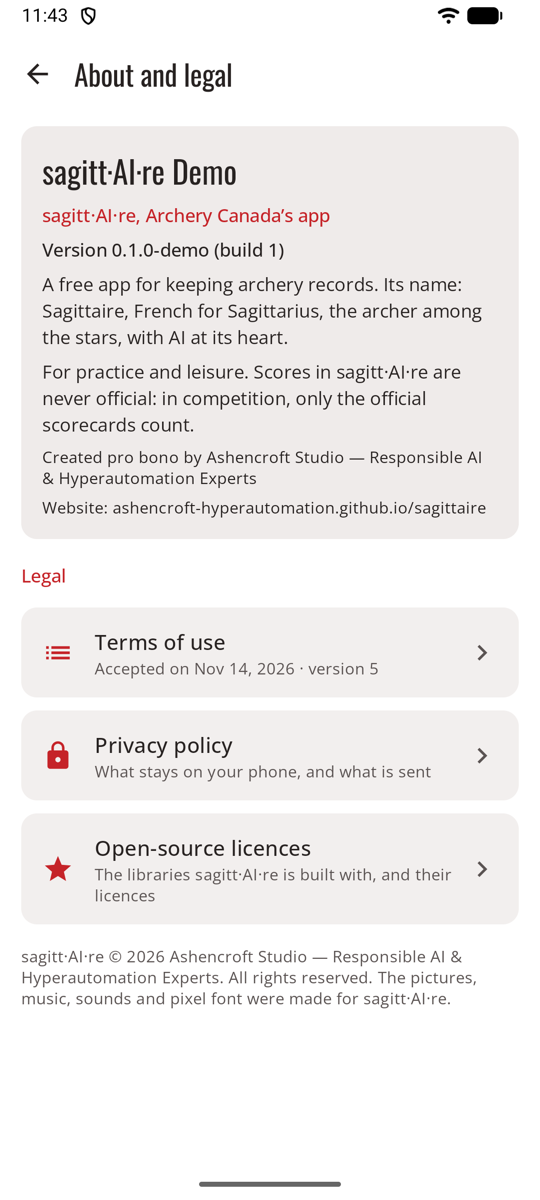
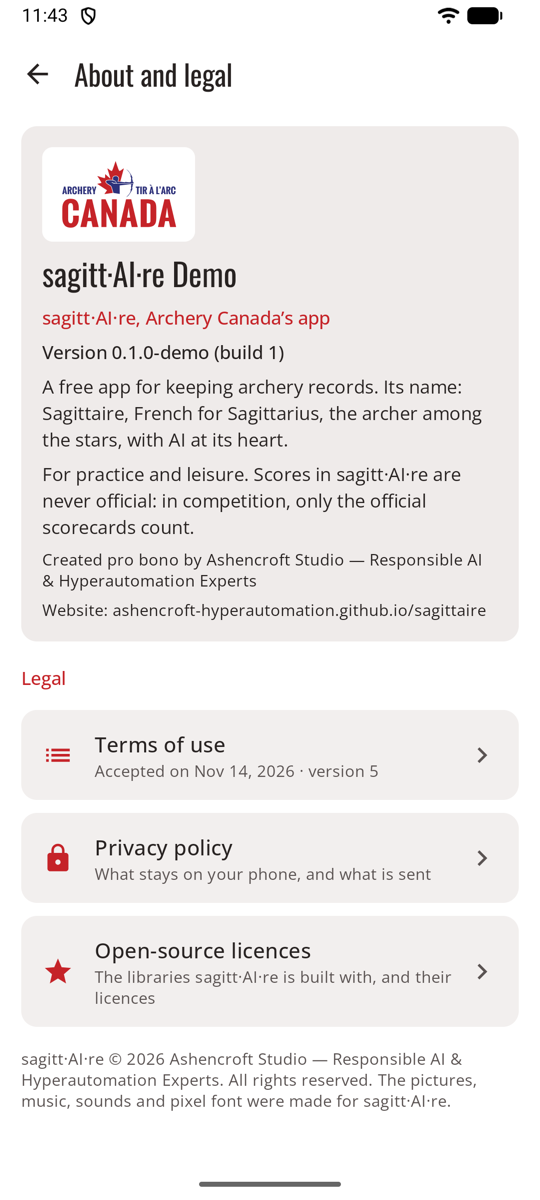
Update the sagitt·AI·re site

diff --git a/sagittaire/docs/stylesheets/extra.css b/sagittaire/docs/stylesheets/extra.css
@@ -33,6 +33,8 @@
 .shots figure { margin: 0; width: 220px; }
 .shots figcaption { font-size: .75rem; text-align: left; }
 .hero img { width: 100%; border-radius: 10px; }
+/* Archery Canada's logo, on white as they show it (its navy needs a light ground, also in dark mode). */
+.md-typeset img.owner-logo { display: block; width: 200px; max-width: 60%; background: #fff; padding: 10px 14px; border-radius: 8px; }
 .md-typeset .grid.cards > ul > li { border-radius: 10px; }
 /* Tabs on the red header: white, the active one underlined. */
 .md-tabs__link { opacity: .9; font-size: .8rem; }

diff --git a/sagittaire/docs/screenshots.fr.md b/sagittaire/docs/screenshots.fr.md
@@ -26,7 +26,7 @@ Prises avec **sagitt·AI·re Demo**, une version de l'application remplie de six
 <figcaption><b>Une volée passée.</b> Chaque volée garde sa photo.</figcaption>
 </figure>
 <figure markdown>
-![Écran de chargement : blanc, TIR À L'ARC CANADA en haut, l'icône (moitié cible, moitié feuille d'érable blanche sur rouge) avec son bandeau DEMO, le nom de l'application, Carnet de tir à l'arc, une barre de progression et l'étape Peinture du blason, et la mention pro bono en bas.](images/screenshots/fr/loading.png){ .shot }
+![Écran de chargement : blanc, le logo de Tir à l’arc Canada en haut, l'icône (moitié cible, moitié feuille d'érable blanche sur rouge) avec son bandeau DEMO, le nom de l'application, Carnet de tir à l'arc, une barre de progression et l'étape Peinture du blason, et la mention pro bono en bas.](images/screenshots/fr/loading.png){ .shot }
 <figcaption><b>Chargement.</b> Environ 2 secondes à l'ouverture.</figcaption>
 </figure>
 </div>
@@ -105,7 +105,7 @@ Prises avec **sagitt·AI·re Demo**, une version de l'application remplie de six
 <figcaption><b>Lieux enregistrés.</b> Renommer, fusionner ou supprimer; les séances restent.</figcaption>
 </figure>
 <figure markdown>
-![À propos et mentions légales : l’application et sa version, puis les conditions d’utilisation avec leur date d’acceptation, la politique de confidentialité et les licences de logiciels libres.](images/screenshots/fr/about.png){ .shot }
+![À propos et mentions légales : le logo de Tir à l’arc Canada, l’application et sa version, puis les conditions d’utilisation avec leur date d’acceptation, la politique de confidentialité et les licences de logiciels libres.](images/screenshots/fr/about.png){ .shot }
 <figcaption><b>À propos et mentions légales.</b> Conditions, confidentialité et licences.</figcaption>
 </figure>
 <figure markdown>

diff --git a/sagittaire/docs/screenshots.es.md b/sagittaire/docs/screenshots.es.md
@@ -26,7 +26,7 @@ Tomadas con **sagitt·AI·re Demo**, una versión de la app llena de seis meses 
 <figcaption><b>Una tanda pasada.</b> Cada tanda conserva su foto.</figcaption>
 </figure>
 <figure markdown>
-![Pantalla de carga: blanca, ARCHERY CANADA arriba, el icono (mitad diana, mitad hoja de arce blanca sobre rojo) con su banda DEMO, el nombre de la app, Registros de tiro con arco, una barra de progreso y el paso Tensando la cuerda, y la mención pro bono abajo.](images/screenshots/es/loading.png){ .shot }
+![Pantalla de carga: blanca, el logotipo de Archery Canada arriba, el icono (mitad diana, mitad hoja de arce blanca sobre rojo) con su banda DEMO, el nombre de la app, Registros de tiro con arco, una barra de progreso y el paso Tensando la cuerda, y la mención pro bono abajo.](images/screenshots/es/loading.png){ .shot }
 <figcaption><b>Carga.</b> Unos 2 segundos al abrir la app.</figcaption>
 </figure>
 </div>
@@ -105,7 +105,7 @@ Tomadas con **sagitt·AI·re Demo**, una versión de la app llena de seis meses 
 <figcaption><b>Lugares guardados.</b> Cambia el nombre, fusiona o elimina; las sesiones se quedan.</figcaption>
 </figure>
 <figure markdown>
-![Información y aviso legal: la app y su versión, luego las condiciones de uso con la fecha en que se aceptaron, la política de privacidad y las licencias de código abierto.](images/screenshots/es/about.png){ .shot }
+![Información y aviso legal: el logotipo de Archery Canada, la app y su versión, luego las condiciones de uso con la fecha en que se aceptaron, la política de privacidad y las licencias de código abierto.](images/screenshots/es/about.png){ .shot }
 <figcaption><b>Información y aviso legal.</b> Condiciones, política de privacidad y licencias.</figcaption>
 </figure>
 <figure markdown>

diff --git a/sagittaire/docs/screenshots.de.md b/sagittaire/docs/screenshots.de.md
@@ -26,7 +26,7 @@ Aufgenommen mit **sagitt·AI·re Demo**, einer Version der App mit sechs Monaten
 <figcaption><b>Eine frühere Passe.</b> Jede Passe behält ihr Foto.</figcaption>
 </figure>
 <figure markdown>
-![Ladebildschirm: weiß, oben ARCHERY CANADA, das Symbol (halb Scheibe, halb weißes Ahornblatt auf Rot) mit seinem DEMO-Band, der App-Name, „Schießtagebuch“, ein Fortschrittsbalken und der Schritt „Bogen bespannen…“, unten der Pro-bono-Hinweis.](images/screenshots/de/loading.png){ .shot }
+![Ladebildschirm: weiß, oben das Logo von Archery Canada, das Symbol (halb Scheibe, halb weißes Ahornblatt auf Rot) mit seinem DEMO-Band, der App-Name, „Schießtagebuch“, ein Fortschrittsbalken und der Schritt „Bogen bespannen…“, unten der Pro-bono-Hinweis.](images/screenshots/de/loading.png){ .shot }
 <figcaption><b>Laden.</b> Etwa 2 Sekunden beim Start.</figcaption>
 </figure>
 </div>
@@ -105,7 +105,7 @@ Aufgenommen mit **sagitt·AI·re Demo**, einer Version der App mit sechs Monaten
 <figcaption><b>Gespeicherte Orte.</b> Umbenennen, zusammenführen oder löschen; die Einheiten bleiben.</figcaption>
 </figure>
 <figure markdown>
-![Info und Rechtliches: die App und ihre Version, dann die Nutzungsbedingungen mit dem Datum der Annahme, die Datenschutzerklärung und die Open-Source-Lizenzen.](images/screenshots/de/about.png){ .shot }
+![Info und Rechtliches: das Logo von Archery Canada, die App und ihre Version, dann die Nutzungsbedingungen mit dem Datum der Annahme, die Datenschutzerklärung und die Open-Source-Lizenzen.](images/screenshots/de/about.png){ .shot }
 <figcaption><b>Info und Rechtliches.</b> Nutzungsbedingungen, Datenschutzerklärung und Lizenzen.</figcaption>
 </figure>
 <figure markdown>

diff --git a/sagittaire/docs/screenshots.md b/sagittaire/docs/screenshots.md
@@ -26,7 +26,7 @@ Taken with **sagitt·AI·re Demo**, a version of the app filled with six months 
 <figcaption><b>A past end.</b> Every end keeps its photo.</figcaption>
 </figure>
 <figure markdown>
-![Loading screen: white, ARCHERY CANADA at the top, the icon (half a target, half a white maple leaf on red) with its DEMO banner, the app name, Archery records, a progress bar and the step Stringing the bow, and the pro bono credit at the bottom.](images/screenshots/loading.png){ .shot }
+![Loading screen: white, Archery Canada’s logo at the top, the icon (half a target, half a white maple leaf on red) with its DEMO banner, the app name, Archery records, a progress bar and the step Stringing the bow, and the pro bono credit at the bottom.](images/screenshots/loading.png){ .shot }
 <figcaption><b>Loading.</b> About 2 seconds at launch.</figcaption>
 </figure>
 </div>
@@ -105,7 +105,7 @@ Taken with **sagitt·AI·re Demo**, a version of the app filled with six months 
 <figcaption><b>Saved places.</b> Rename, merge or delete; sessions stay.</figcaption>
 </figure>
 <figure markdown>
-![About and legal: the app and its version, then the terms of use with the date they were accepted, the privacy policy and the open-source licences.](images/screenshots/about.png){ .shot }
+![About and legal: Archery Canada’s logo, the app and its version, then the terms of use with the date they were accepted, the privacy policy and the open-source licences.](images/screenshots/about.png){ .shot }
 <figcaption><b>About and legal.</b> Terms, privacy policy and licences.</figcaption>
 </figure>
 <figure markdown>

diff --git a/sagittaire/docs/roadmap.fr.md b/sagittaire/docs/roadmap.fr.md
@@ -35,10 +35,10 @@ sagitt·AI·re est un projet pro bono du Studio Ashencroft, construit au grand j
 - [x] **Jeux de flèches** et **carnet de réglages** pour chaque arc, avec les réglages sur la tendance des statistiques
 - [x] **Objectifs d’entraînement :** flèches par semaine et une moyenne à atteindre, à l’accueil, et un défi de la semaine en mode jeu
 - [x] Une vérification de l’accessibilité de chaque écran (grand texte, lecteur d’écran)
+- [x] Le logo de Tir à l’arc Canada sur l’écran de chargement, dans À propos et sur le site
 
 ## À venir
 
 - [ ] Le comptage par l’IA vérifié sur de vrais blasons de campagne et de vraies cibles 3D
-- [ ] Les fichiers officiels du logo de Tir à l’arc Canada
 
 sagitt·AI·re s’installe directement sur le téléphone : aucune publication dans une boutique d’applications n’est prévue.

diff --git a/sagittaire/docs/roadmap.es.md b/sagittaire/docs/roadmap.es.md
@@ -35,10 +35,10 @@ sagitt·AI·re es un proyecto pro bono del Estudio Ashencroft, construido a la v
 - [x] **Juegos de flechas** y un **registro de ajustes** para cada arco, con los cambios de ajuste en la tendencia de las estadísticas
 - [x] **Objetivos de entrenamiento:** flechas por semana y una media que alcanzar, en Inicio, y un reto de la semana en el modo juego
 - [x] Una revisión de accesibilidad de todas las pantallas (texto grande, lector de pantalla)
+- [x] El logotipo de Archery Canada en la pantalla de carga, en Información y en el sitio web
 
 ## Próximamente { #coming }
 
 - [ ] Puntuación con IA comprobada en dianas reales de campo y 3D
-- [ ] Los archivos oficiales del logotipo de Archery Canada
 
 sagitt·AI·re se instala directamente en el teléfono: no está prevista su publicación en ninguna tienda de aplicaciones.

diff --git a/sagittaire/docs/roadmap.de.md b/sagittaire/docs/roadmap.de.md
@@ -35,10 +35,10 @@ sagitt·AI·re ist ein Pro-bono-Projekt von Ashencroft Studio und wird offen ent
 - [x] **Pfeilsätze** und ein **Tuning-Logbuch** für jeden Bogen, mit den Tuning-Änderungen im Statistik-Verlauf
 - [x] **Trainingsziele:** Pfeile pro Woche und ein Schnitt, den du erreichen willst, auf der Übersicht, und eine Wochenherausforderung im Spielmodus
 - [x] Eine Prüfung der Barrierefreiheit auf jedem Bildschirm (große Schrift, Screenreader)
+- [x] Das Logo von Archery Canada auf dem Ladebildschirm, unter Info und auf der Website
 
 ## Geplant { #coming }
 
 - [ ] KI-Wertung auf echten Feld- und 3D-Auflagen geprüft
-- [ ] Die offiziellen Logodateien von Archery Canada
 
 sagitt·AI·re wird direkt auf dem Handy installiert: Eine Veröffentlichung in einem App-Store ist nicht geplant.

diff --git a/sagittaire/docs/guide.fr.md b/sagittaire/docs/guide.fr.md
@@ -4,7 +4,7 @@ De l’ouverture de l’application à votre première volée validée, en quelq
 
 <div class="shots" markdown>
 <figure markdown>
-![Écran de chargement : blanc, TIR À L’ARC CANADA en haut, l’icône moitié cible, moitié feuille d’érable et une barre de progression, et la mention pro bono en bas.](images/screenshots/fr/loading.png){ .shot }
+![Écran de chargement : blanc, le logo de Tir à l’arc Canada en haut, l’icône moitié cible, moitié feuille d’érable et une barre de progression, et la mention pro bono en bas.](images/screenshots/fr/loading.png){ .shot }
 <figcaption>L’écran de chargement</figcaption>
 </figure>
 <figure markdown>

diff --git a/sagittaire/docs/roadmap.md b/sagittaire/docs/roadmap.md
@@ -35,10 +35,10 @@ sagitt·AI·re is a pro bono project of Ashencroft Studio, built in the open. He
 - [x] **Arrow sets** and a **tuning log** for each bow, with the tuning changes on the statistics trend
 - [x] **Training goals:** arrows per week and an average to reach, on the Dashboard, and a weekly challenge in game mode
 - [x] An accessibility check of every screen (large text, screen reader)
+- [x] Archery Canada's logo on the loading screen, in About and on the website
 
 ## Coming
 
 - [ ] AI scoring checked on real field and 3D faces
-- [ ] Archery Canada's official logo files
 
 sagitt·AI·re is installed directly on the phone: no app store release is planned.

diff --git a/sagittaire/docs/guide.es.md b/sagittaire/docs/guide.es.md
@@ -4,7 +4,7 @@ De abrir la app a tu primera tanda confirmada, en pocos pasos. Cada paso lleva a
 
 <div class="shots" markdown>
 <figure markdown>
-![Pantalla de carga: blanca, ARCHERY CANADA arriba, el icono mitad diana, mitad hoja de arce y una barra de progreso, y la mención pro bono abajo.](images/screenshots/es/loading.png){ .shot }
+![Pantalla de carga: blanca, el logotipo de Archery Canada arriba, el icono mitad diana, mitad hoja de arce y una barra de progreso, y la mención pro bono abajo.](images/screenshots/es/loading.png){ .shot }
 <figcaption>La pantalla de carga</figcaption>
 </figure>
 <figure markdown>

diff --git a/sagittaire/docs/guide.md b/sagittaire/docs/guide.md
@@ -4,7 +4,7 @@ From opening the app to your first confirmed end, in a few steps. Each step link
 
 <div class="shots" markdown>
 <figure markdown>
-![Loading screen: white, ARCHERY CANADA at the top, the half-target, half-maple-leaf icon and a progress bar, and the pro bono credit at the bottom.](images/screenshots/loading.png){ .shot }
+![Loading screen: white, Archery Canada’s logo at the top, the half-target, half-maple-leaf icon and a progress bar, and the pro bono credit at the bottom.](images/screenshots/loading.png){ .shot }
 <figcaption>The loading screen</figcaption>
 </figure>
 <figure markdown>
